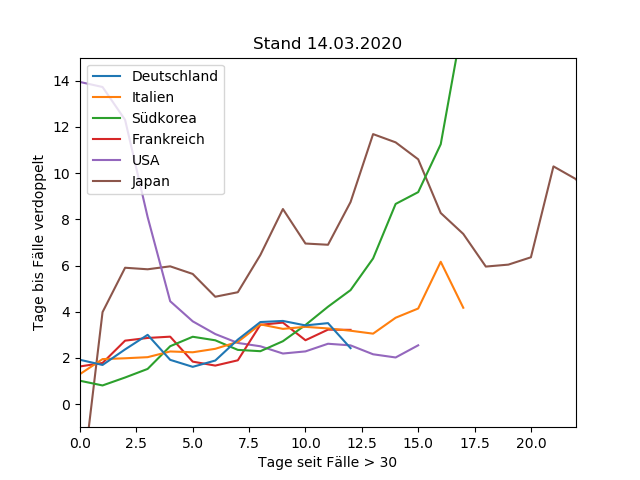
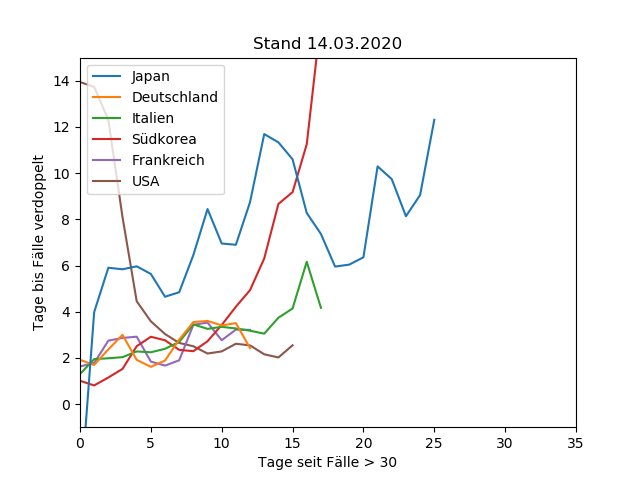
same color coding for all plots

diff --git a/plot.py b/plot.py
@@ -38,7 +38,6 @@ data = data[data['Country/Region'].isin(countries)]
 assert(len(data.index) == len(countries))
 # generate mapping of index to country
 indices_countries = {data[data['Country/Region'] == country].index[0]: translation[country] for country in countries}
-countries = [translation[country] for country in countries]
 
 # remove columns that are not needed anymore
 data = data.drop(labels=['Province/State', 'Country/Region', 'Lat', 'Long'], axis='columns')
@@ -78,7 +77,8 @@ index_dates = data.index.to_list()
 index = np.arange(len(index_dates))
 cases_min = 30 # min cases for fitting curves
 xlim_max = 0
-for j, country in enumerate(countries):
+for j, country_index in enumerate(sorted(indices_countries)):
+    country = indices_countries[country_index]
     cases = np.array(data[country].to_list())
     if j == 0:
         xlim_max = len(cases[cases > cases_min])
